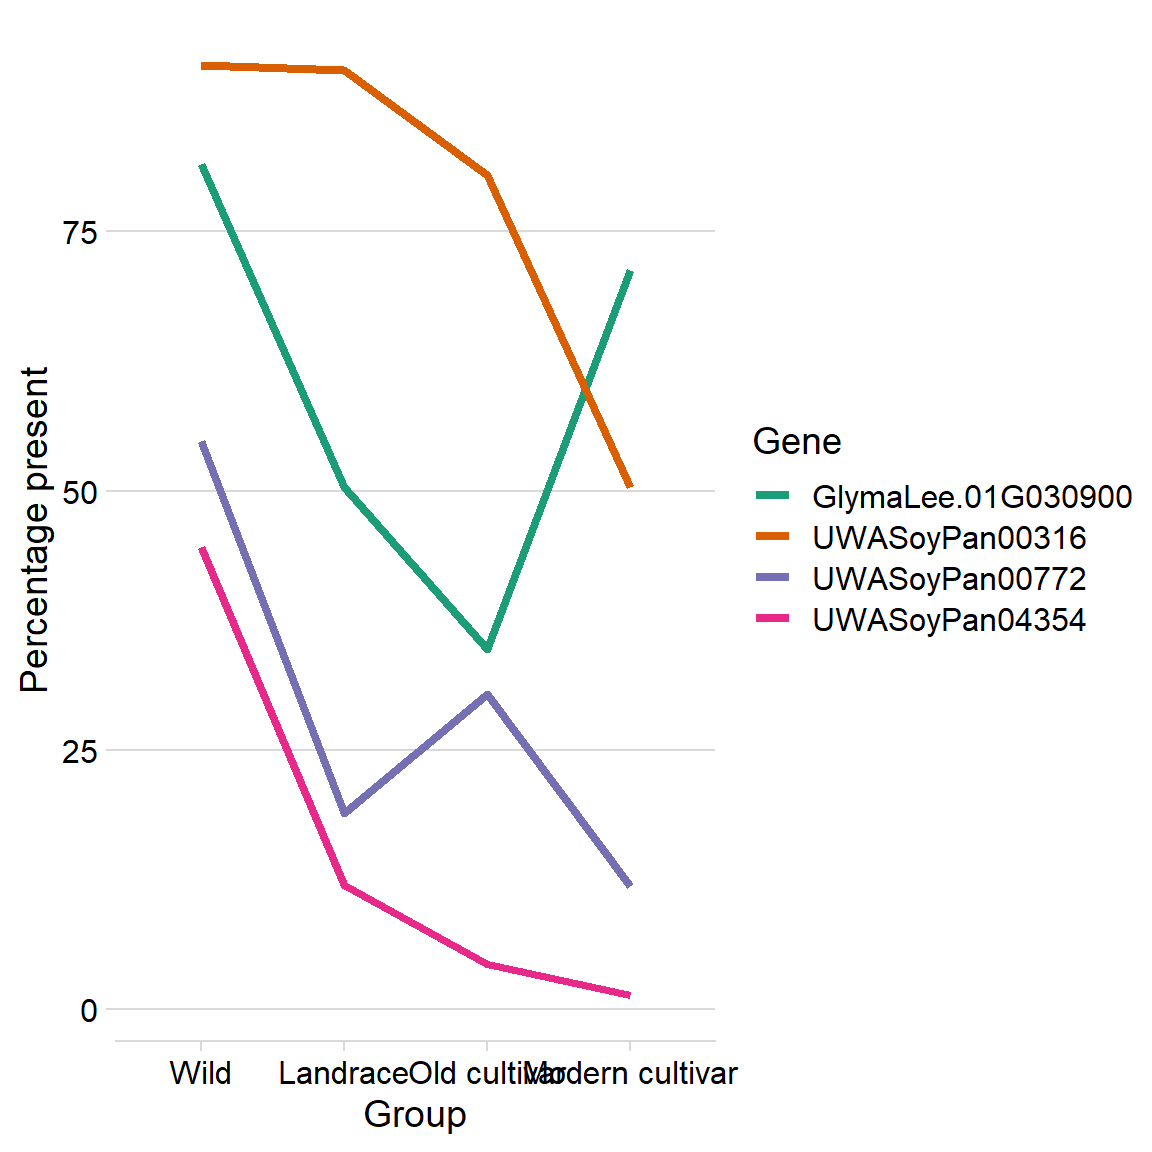
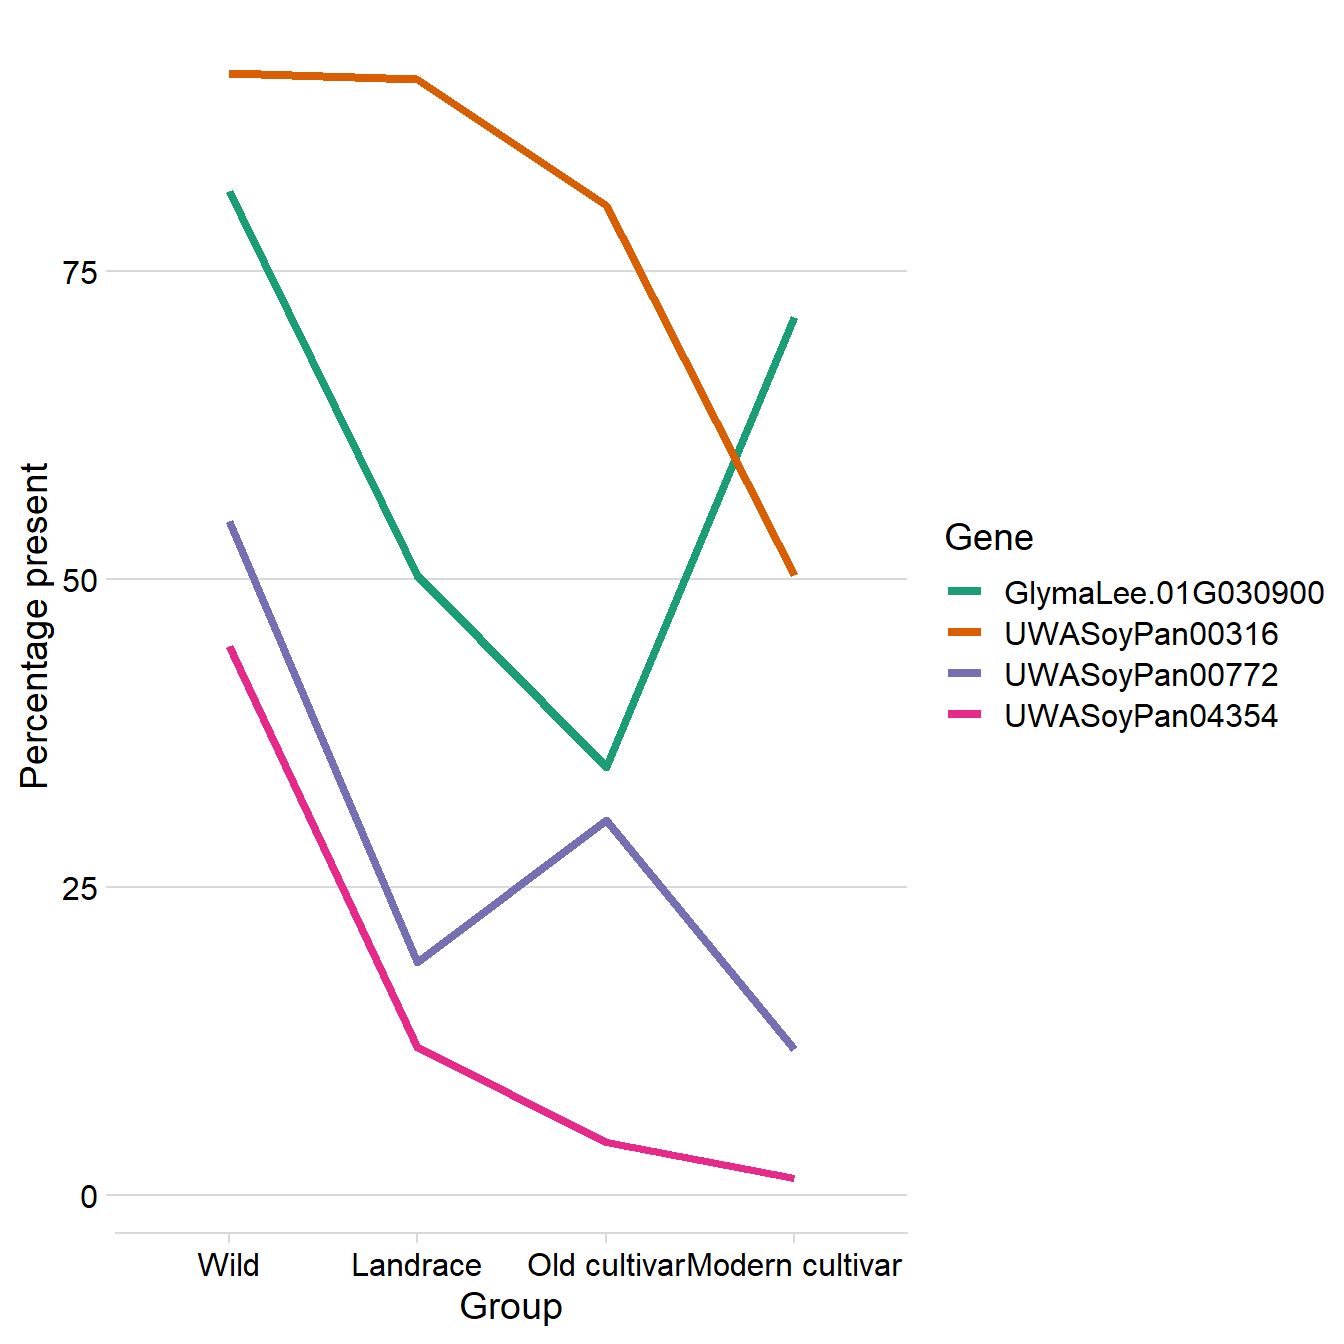
Build site.

diff --git a/docs/gwas.html b/docs/gwas.html
@@ -504,16 +504,16 @@ This reproducible <a href="http://rmarkdown.rstudio.com">R Markdown</a> analysis
 <div class="panel panel-default">
 <div class="panel-heading">
 <p class="panel-title">
-<a data-toggle="collapse" data-parent="#workflowr-checks" href="#strongRepositoryversionstrongahrefhttpsgithubcomphilippbayerRgeneanalysistree6a6bd446dccc5d4634269d5ce0e147c0c71d5bc9targetblank6a6bd44a"> <span class="glyphicon glyphicon-ok text-success" aria-hidden="true"></span> <strong>Repository version:</strong> <a href="https://github.com/philippbayer/R_gene_analysis/tree/6a6bd446dccc5d4634269d5ce0e147c0c71d5bc9" target="_blank">6a6bd44</a> </a>
+<a data-toggle="collapse" data-parent="#workflowr-checks" href="#strongRepositoryversionstrongahrefhttpsgithubcomphilippbayerRgeneanalysistree6f42f60ebe3d7d709e98c749418a3849354f9004targetblank6f42f60a"> <span class="glyphicon glyphicon-ok text-success" aria-hidden="true"></span> <strong>Repository version:</strong> <a href="https://github.com/philippbayer/R_gene_analysis/tree/6f42f60ebe3d7d709e98c749418a3849354f9004" target="_blank">6f42f60</a> </a>
 </p>
 </div>
[2 lines of base64/hex data omitted]
 <div class="panel-body">
 <p>
 Great! You are using Git for version control. Tracking code development and connecting the code version to the results is critical for reproducibility.
 </p>
 <p>
-The results in this page were generated with repository version <a href="https://github.com/philippbayer/R_gene_analysis/tree/6a6bd446dccc5d4634269d5ce0e147c0c71d5bc9" target="_blank">6a6bd44</a>. See the <em>Past versions</em> tab to see a history of the changes made to the R Markdown and HTML files.
+The results in this page were generated with repository version <a href="https://github.com/philippbayer/R_gene_analysis/tree/6f42f60ebe3d7d709e98c749418a3849354f9004" target="_blank">6f42f60</a>. See the <em>Past versions</em> tab to see a history of the changes made to the R Markdown and HTML files.
 </p>
 <p>
 Note that you need to be careful to ensure that all relevant files for the analysis have been committed to Git prior to generating the results (you can use <code>wflow_publish</code> or <code>wflow_git_commit</code>). workflowr only checks the R Markdown file, but you know if there are other scripts or data files that it depends on. Below is the status of the Git repository when the results were generated:
@@ -600,6 +600,40 @@ Message
 </tr>
 </thead>
 <tbody>
+<tr>
+<td>
+Rmd
+</td>
+<td>
+<a href="https://github.com/philippbayer/R_gene_analysis/blob/6f42f60ebe3d7d709e98c749418a3849354f9004/analysis/gwas.Rmd" target="_blank">6f42f60</a>
+</td>
+<td>
+Philipp Bayer
+</td>
+<td>
+2021-03-31
+</td>
+<td>
+wflow_publish(“analysis/gwas.Rmd”)
+</td>
+</tr>
+<tr>
+<td>
+html
+</td>
+<td>
+<a href="https://rawcdn.githack.com/philippbayer/R_gene_analysis/e294dc62ac6f1c937c2ebad6231def8ef67cbd34/docs/gwas.html" target="_blank">e294dc6</a>
+</td>
+<td>
+Philipp Bayer
+</td>
+<td>
+2021-03-31
+</td>
+<td>
+Build site.
+</td>
+</tr>
 <tr>
 <td>
 Rmd
@@ -1972,7 +2006,7 @@ big_t %&gt;% group_by(Group, Gene) %&gt;% mutate(group_sum = sum(n)) %&gt;%
   theme_minimal_hgrid() +
   ylab(&#39;Percentage present&#39;) +
   scale_color_brewer(palette = &#39;Dark2&#39;) </code></pre>
-<p><img src="figure/gwas.Rmd/unnamed-chunk-21-1.png" width="576" style="display: block; margin: auto;" /></p>
+<p><img src="figure/gwas.Rmd/unnamed-chunk-21-1.png" width="672" style="display: block; margin: auto;" /></p>
 <p>and let’s also get the per-gene mean and median yield</p>
 <pre class="r"><code>yields &lt;- NULL
 for(i in 1:nrow(candidates)) {
